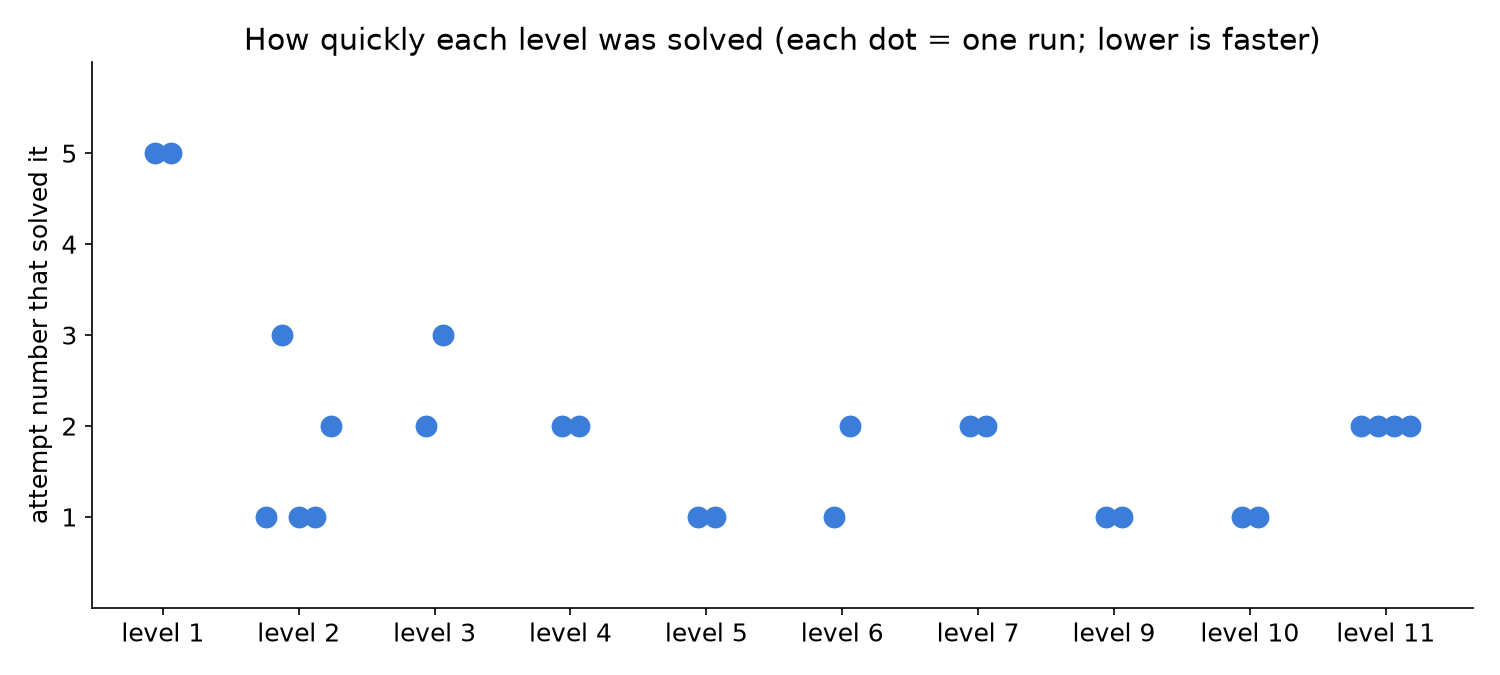
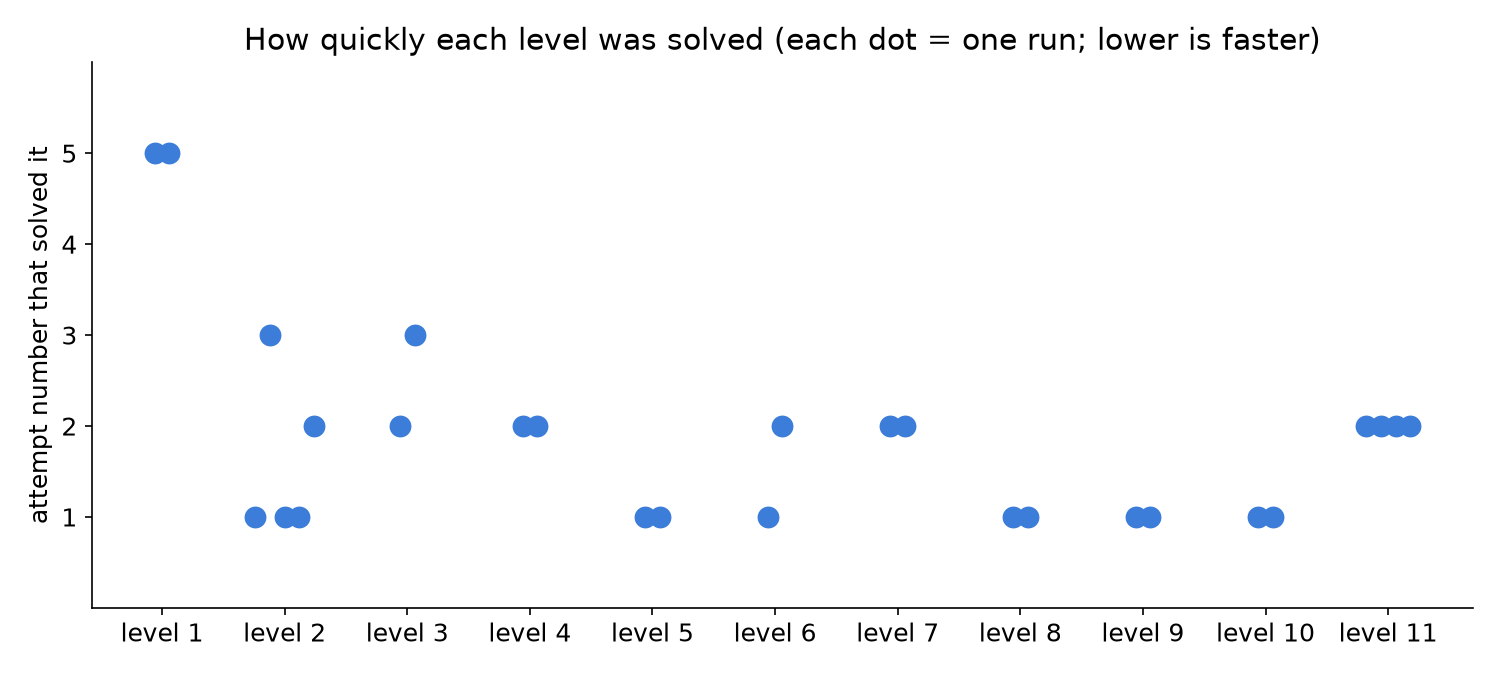
Write-up: all 11 levels solved, level 8 with an explicit stage plan

diff --git a/projects/20-kernel-agent/analysis/make_charts.py b/projects/20-kernel-agent/analysis/make_charts.py
@@ -24,8 +24,8 @@ levels = ["1\npooling", "2\ntranspose", "3\nmatmul\n1 tile", "4\nmatmul\ntiled",
           "6\nless\ntraffic", "7\nleast\ntraffic", "8\nattention", "9\ntranspose\n(new)", "10\nsoftmax\n(new)",
           "11\nscores\n(new)"]
 before = [0, 3 / 5, 0, 0, 0, 0, 0, 0, 0, 0, 0]   # level 2: the repo measured 2/5 to 4/5 with the original agent
-after = [2 / 2, 5 / 6, 2 / 2, 5 / 6, 2 / 2, 2 / 2, 2 / 2, 0, 2 / 2, 2 / 2, 4 / 4]
-after_lbl = ["2/2", "5/6", "2/2", "5/6", "2/2", "2/2", "2/2", "0", "2/2", "2/2", "4/4"]
+after = [2 / 2, 5 / 6, 2 / 2, 5 / 6, 2 / 2, 2 / 2, 2 / 2, 2 / 2, 2 / 2, 2 / 2, 4 / 4]
+after_lbl = ["2/2", "5/6", "2/2", "5/6", "2/2", "2/2", "2/2", "2/2*", "2/2", "2/2", "4/4"]
 fig, ax = plt.subplots(figsize=(13, 5))
 x = range(len(levels))
 ax.bar([i - 0.2 for i in x], before, 0.4, color=GREY, label="before our changes")
@@ -41,12 +41,12 @@ for i in range(len(levels)):
         ax.text(i - 0.2, 0.02, "0", ha="center", fontsize=10, color="#555")
 ax.set_xticks(list(x)); ax.set_xticklabels(levels, fontsize=10)
 ax.set_ylim(0, 1.35); ax.set_ylabel("share of runs solved")
-ax.set_title("Before vs after: the same model now solves 10 of 11 levels")
+ax.set_title("Before vs after: the same model now solves all 11 levels  (* level 8 with an explicit stage plan)")
 ax.legend(loc="upper center", ncol=2, frameon=False)
 save(fig, "chart_1_before_after.png")
 
 # 2. How fast: round of the first solve, per solved run ---------------------------------------
-solves = {"1": [4, 4], "2": [0, 2, 0, 0, 1], "3": [1, 2], "4": [1, 1], "5": [0, 0], "6": [0, 1], "7": [1, 1],
+solves = {"1": [4, 4], "2": [0, 2, 0, 0, 1], "3": [1, 2], "4": [1, 1], "5": [0, 0], "6": [0, 1], "7": [1, 1], "8": [0, 0],
           "9": [0, 0], "10": [0, 0], "11": [1, 1, 1, 1]}
 fig, ax = plt.subplots(figsize=(10, 4.5))
 for i, (lv, rounds) in enumerate(solves.items()):

diff --git a/projects/20-kernel-agent/RESULTS.md b/projects/20-kernel-agent/RESULTS.md
@@ -1,8 +1,9 @@
 # Project 2 — teaching a small model to write chip code (team 20)
 
 **In one line:** the same small model (Qwen3-8B on one Trainium2 chip) went from solving almost nothing to
-solving **10 of 11 levels**: we changed **what the checker tells it after a failed try**, let it **reuse code
-it had already got right**, and made the loop **7× faster**. Level 8 (full attention) is still open.
+solving **all 11 levels**: we changed **what the checker tells it after a failed try**, let it **reuse code
+it had already got right**, and made the loop **7× faster**. Level 8 (full attention) needed an explicit
+stage-by-stage plan in the prompt.
 
 ![How the loop works](assets/agent_loop.png)
 
@@ -25,7 +26,7 @@ it had already got right**, and made the loop **7× faster**. Level 8 (full atte
 | 3 | matrix multiply, one tile | never | **2 of 2** |
 | 4 | matrix multiply, tiled | never | **5 of 6** |
 | 5–7 | the same, moving less data | never reached | **2 of 2 each** |
-| 8 | full attention | never | **not solved** |
+| 8 | full attention | never | **2 of 2** with `--attention-plan`; never without it |
 | 9–10 *(added)* | transpose, softmax — stepping stones to 8 | stuck | **2 of 2 each** |
 | 11 *(added)* | attention scores q·kᵀ/√d | stuck | **4 of 4** with building blocks, 2 of 4 without |
 
@@ -51,7 +52,12 @@ level 3, 4, 7, 9 and 10 programs gave **15 of 15 correct**.
    usual wrong versions (scale inverted, Pᵀ·V, softmax on the wrong axis…) and names the one it matches.
 5. **Fix the task text.** Level 2's description said the transpose crosses partitions; the reference keeps
    them. Corrected, level 2 went from about 2 in 3 to 5 of 6.
-6. **Make the loop fast.** The model server used half the chip. On the whole chip: **5.6 → 39 tokens/s per
+6. **Spell out the stages for attention.** Lighter guidance never solved level 8. Team 20's seat-97
+   work added the attention contract and a 13-stage buffer plan (`--attention-plan`): **2 of 2 runs on round
+   0, all 4 samples correct**. The kernel also passes 24 extra simulator cases (zero-Q, constant-V,
+   permuted K/V, large logits, odd shapes) and the official shapes on the real chip
+   ([results/seat97-repair/](results/seat97-repair/)).
+7. **Make the loop fast.** The model server used half the chip. On the whole chip: **5.6 → 39 tokens/s per
    request**, a round went from **~120 s to 18–30 s**.
 
 ## What we measured about the loop itself (866 logged attempts)
@@ -69,7 +75,9 @@ level 3, 4, 7, 9 and 10 programs gave **15 of 15 correct**.
 
 * Few runs per level (2–6), one model. "2 of 2" means two tries, not a guarantee.
 * The feedback describes the solution's structure in detail: this is the checker teaching the method.
-* `reference_level8.py` is **hand-written by us**, never shown to the agent: it only proves level 8 is solvable.
+* **Level 8 was solved only with `--attention-plan`**, which names every buffer and all 13 stages — close to
+  dictating the kernel. Without it, no run solved it (seat 97, and every run on seats 95–99). Two runs is a
+  smoke test, not a rate.
 * We checked correctness on the chip, **not kernel speed**; levels 6 and 11 were not run on the chip.
   Level 6 zeroes PSUM before accumulating, which AWS documents as a hazard on older chips — unverified here.
 * Level 11's kernel is correct but writes its output twice: 1.2–1.6× the minimum traffic (level 11 has no
@@ -97,7 +105,8 @@ COMMON="--rounds 8 --samples 4 --context 8192 --model Qwen/Qwen3-8B --level-hint
 python agent.py --level 2 $COMMON --repeat 6 --echo-check
 python agent.py --level 7 $COMMON --repeat 2 --seed-from solved/level04_matmul_tiled.py
 python agent.py --level 11 $COMMON --repeat 4 --blocks solved/level09_transpose_tensor_engine.py
-python holdout_check.py; python device_check.py; python analysis/trace_analysis.py attempts.jsonl
+python agent.py --level 8 $COMMON --repeat 2 --attention-plan
+python mutation_check.py; python holdout_check.py; python device_check.py; python analysis/trace_analysis.py attempts.jsonl
 ```
 
 ## Files
@@ -108,7 +117,8 @@ python holdout_check.py; python device_check.py; python analysis/trace_analysis.
 | `nkibench.py` | the checker (bug fixes, stricter re-checks, levels 9–11) |
 | `lint.py` | the static check: every memory, shape and API mistake at once, with AWS doc excerpts |
 | `solved/` | every program the agent wrote that passed, with its re-check printout |
-| `reference_level8.py` | our hand-written attention kernel (proof of solvability, not an agent result) |
 | `holdout_check.py`, `device_check.py` | the two "is it real?" checks |
 | `ab.py`, `analysis/` | fair A/B runner, attempt-log analysis, chart script |
+| `mutation_check.py` | seeds 13 observed attention bugs into the level-8 kernel; the checker must name each |
+| `tests/`, `results/seat97-repair/` | level-8 independent checks (CPU and device) and the seat-97 evidence |
 | `logs/attempts.tar.gz` | the attempt log: every attempt (2,106) with its code, score and the feedback it got |

diff --git a/projects/20-kernel-agent/README.md b/projects/20-kernel-agent/README.md
@@ -3,17 +3,17 @@
 **An agent writes small programs that run directly on the chip, and keeps verifying its own output
 as it goes.**
 
-> ## STATUS (team 20): 10 OF 11 LEVELS SOLVED — LEVEL 8 (ATTENTION) STILL OPEN
+> ## STATUS (team 20): ALL 11 LEVELS SOLVED BY THE AGENT
 >
-> **Results, charts and limits: [RESULTS.md](RESULTS.md).** The same Qwen3-8B now solves levels 1–7 and
-> our stepping-stone levels 9–11, re-checked on 228 unseen inputs (210 pass, none with wrong numbers) and
-> 15/15 on the real chip. What changed: feedback that names the fix, a static check (`lint.py`) that lists
-> every mistake at once, reuse of the agent's own verified kernels, and the model server on the whole chip
-> (7× faster rounds).
+> **Results, charts and limits: [RESULTS.md](RESULTS.md).** The same Qwen3-8B now solves levels 1–7, level 8
+> (attention) and our stepping-stone levels 9–11. Re-checked on 228 unseen inputs (210 pass, none with wrong
+> numbers) and on the real chip. What changed: feedback that names the fix, a static check (`lint.py`) that
+> lists every mistake at once, reuse of the agent's own verified kernels, and the model server on the whole
+> chip (7× faster rounds).
 >
-> **Still open:** level 8 (full attention) — the agent has not solved it. `reference_level8.py` is our
-> hand-written kernel proving it is solvable; the agent never sees it. Kernel speed on the device is not
-> measured. The original README below is kept as the problem statement.
+> **Level 8 needed the most help:** it was solved only with `--attention-plan`, which spells out every buffer
+> and stage (team 20's seat-97 work, [results/seat97-repair/](results/seat97-repair/)). Kernel speed on the
+> device is not measured. The original README below is kept as the problem statement.
 
 ---
 

diff --git a/README.md b/README.md
@@ -339,7 +339,7 @@ stack five programmers tend to lose these.
 | # | project | status |
 |---|---|---|
 | **1** | [**The heat-rod agent**](projects/01-heat-rod-pde/) — a small model solves heat-equation problems under a checker that grades the physics, with a calculator it aims itself. | **solved 6/6** |
-| **2** | [**The kernel agent**](projects/20-kernel-agent/) — an agent writes NKI kernels that run on the chip and keeps verifying its own output. | **10 of 11 levels** (team 20, see [RESULTS](projects/20-kernel-agent/RESULTS.md)); level 8 open |
+| **2** | [**The kernel agent**](projects/20-kernel-agent/) — an agent writes NKI kernels that run on the chip and keeps verifying its own output. | **11 of 11 levels** (team 20, see [RESULTS](projects/20-kernel-agent/RESULTS.md)); level 8 with an explicit stage plan |
 
 Both project READMEs open with a real transcript of what the loop prints, so you can judge a project — and
 tell progress from flailing — before starting.
